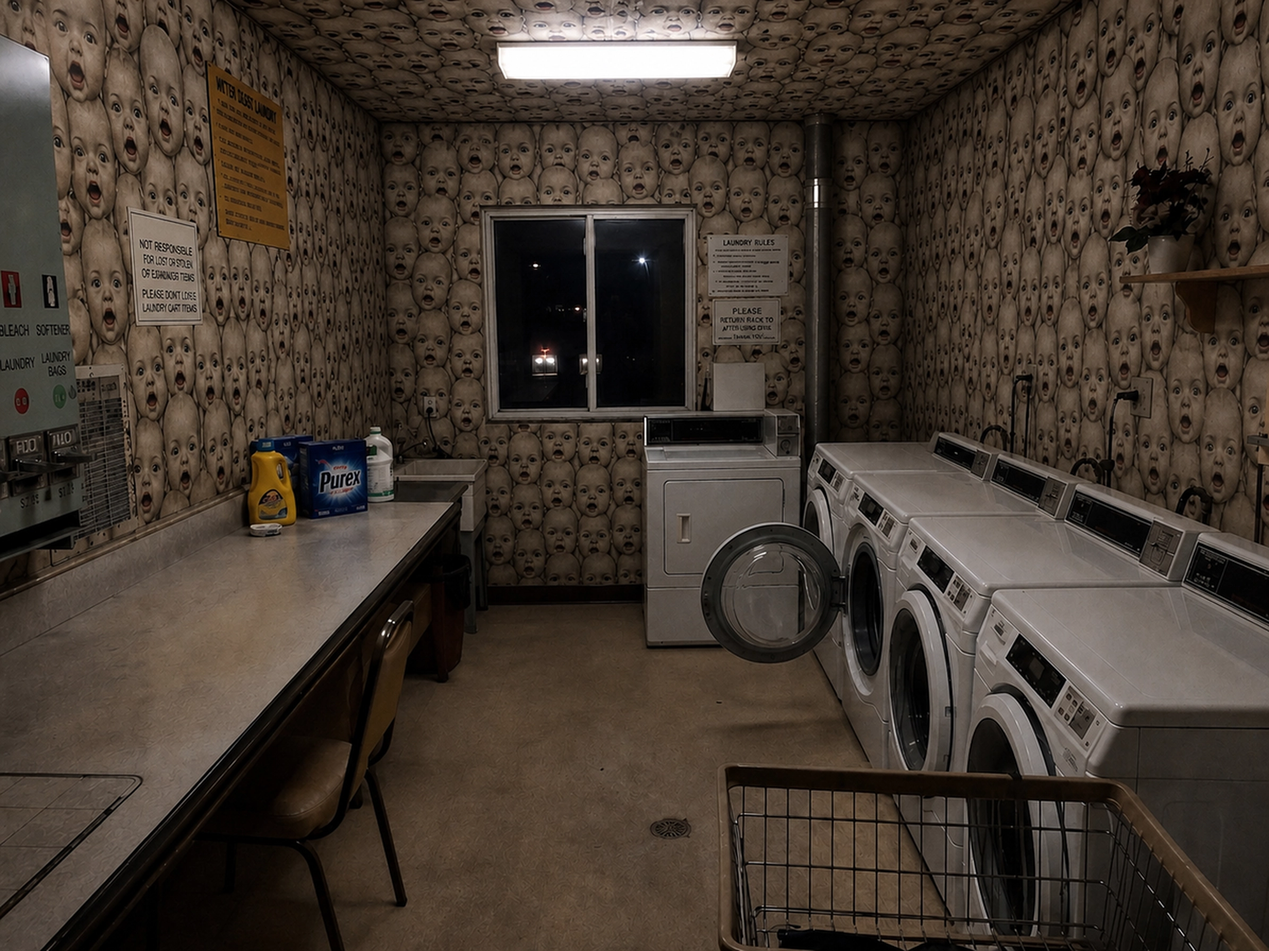
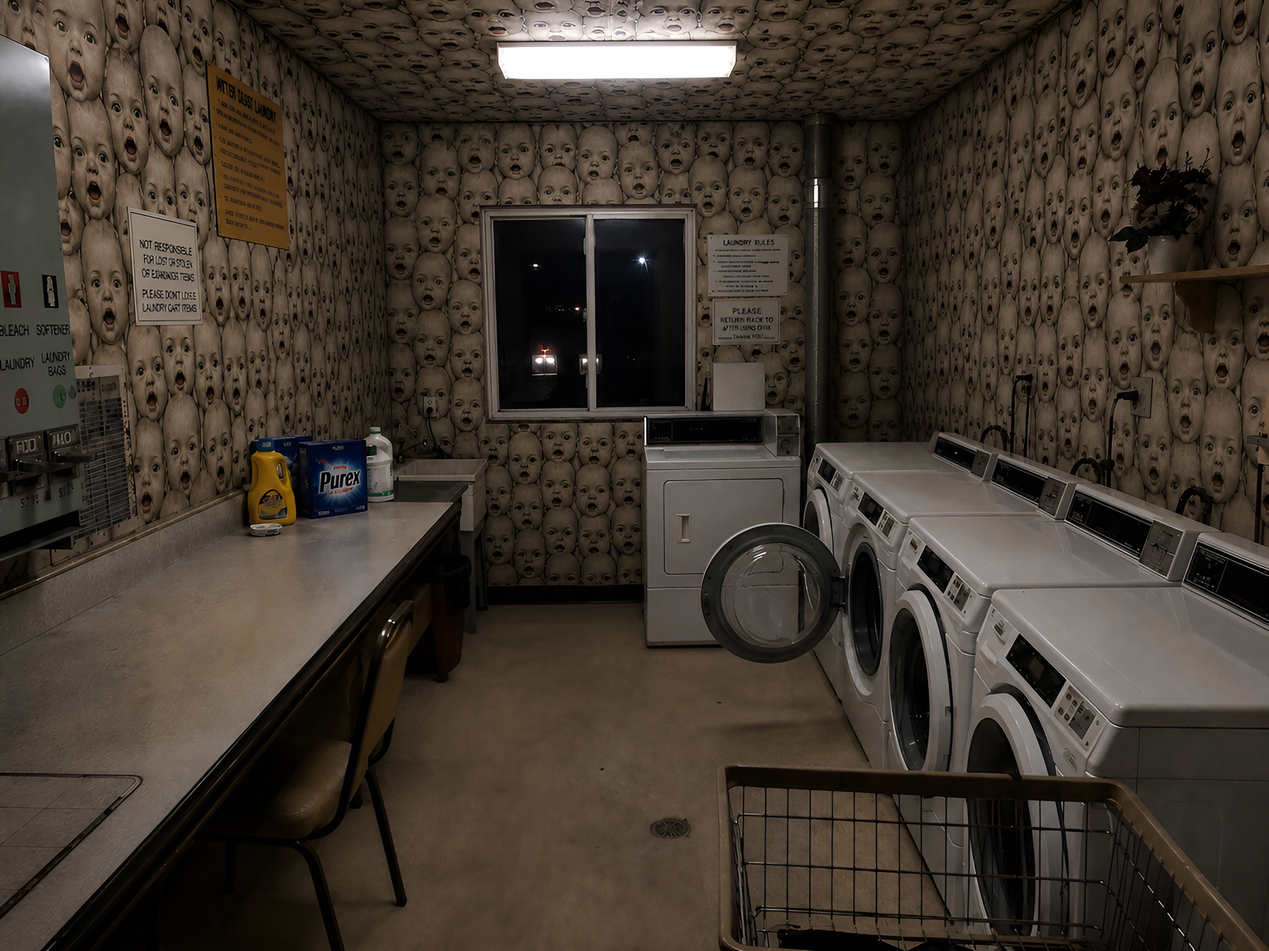
fix: restore anomaly detail and tighten call spacing

diff --git a/resource/sounds/anomalies/README.md b/resource/sounds/anomalies/README.md
@@ -9,7 +9,7 @@
 - `shower_curtain_move.ogg`: 샤워 커튼을 열거나 닫을 때 재생하는 실제 천 마찰음.
 - `curtain_legs_reveal.ogg`: 커튼 안의 다리를 최초로 발견할 때 한 번만 재생하는 낮은 마찰·충격 합성음.
 - `shadow_footstep_sequence.ogg`: 플레이어의 세 걸음 이동음을 동일한 리듬으로 다시 재생하는 그림자 복제음.
-- `front_glass_face_cassowary_call.ogg`: 유리문 얼굴이 나타난 프런트 진입 시와 첫 벨 3연타 뒤 공격 상태로 바뀔 때, 같은 실제 화식조 울음을 90ms 간격으로 세 번 연속 재생하는 시퀀스.
+- `front_glass_face_cassowary_call.ogg`: 유리문 얼굴이 나타난 프런트 진입 시와 첫 벨 3연타 뒤 공격 상태로 바뀔 때, 같은 실제 화식조 울음을 30ms 간격으로 세 번 연속 재생하는 시퀀스.
 
 외부 녹음을 사용한 파일은 `resource/sounds/licenses/`에 원본 URL,
 라이선스와 가공 내역을 기록한다. 모두 상업 이용과 재배포가 허용된 CC0

diff --git a/resource/sounds/licenses/freesound_cassowary_826080.md b/resource/sounds/licenses/freesound_cassowary_826080.md
@@ -11,4 +11,4 @@
 - Commercial use: Allowed
 - Modification allowed: Allowed
 - Redistribution allowed: Allowed
-- Modifications: Downmixed the 0.711-second recording to mono, added 15 ms fade-in and 30 ms fade-out, and converted it to 48 kHz Ogg Vorbis. The same call is arranged three times with 90 ms of silence between calls. Pitch and playback speed are unchanged.
+- Modifications: Downmixed the 0.711-second recording to mono, added 15 ms fade-in and 30 ms fade-out, and converted it to 48 kHz Ogg Vorbis. The same call is arranged three times with 30 ms of silence between calls. Pitch and playback speed are unchanged.
